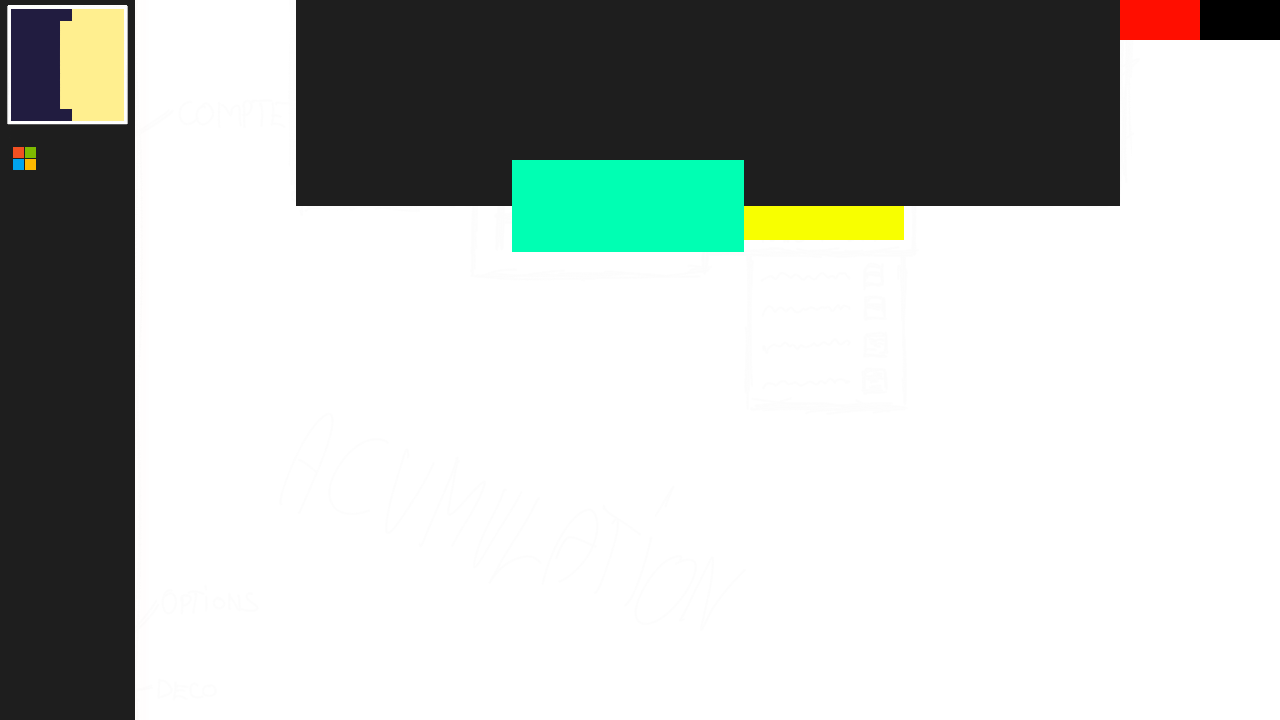
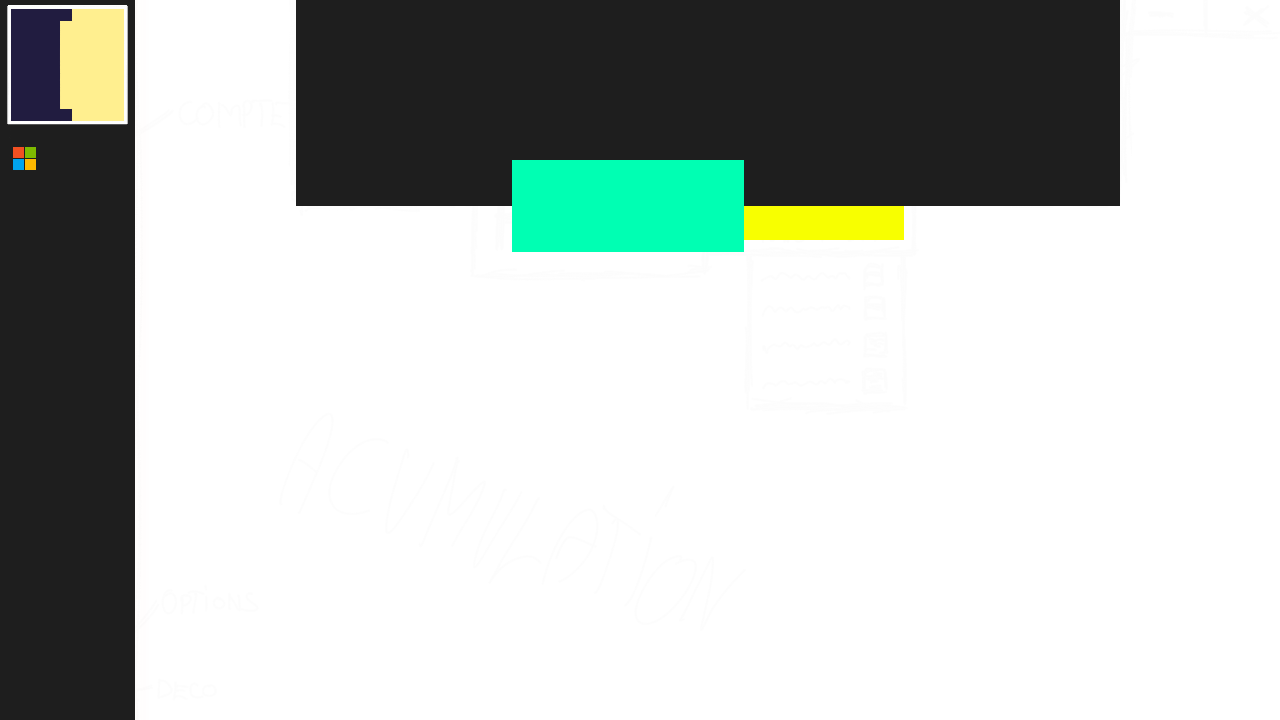
get all minecraft versions and launch the game

Changed region(s): [[0.875, 0.0, 1.0, 0.0611]]

diff --git a/src/main/resources/styles/MainPane.css b/src/main/resources/styles/MainPane.css
@@ -40,3 +40,8 @@
 #version_combo_box {
     -fx-background-color: red;
 }
+
+#play_button {
+    -fx-background-image: url("../images/play_button2.png");
+    -fx-background-color: transparent;
+}

diff --git a/src/main/java/fr/knightmar/system/VersionManager.java b/src/main/java/fr/knightmar/system/VersionManager.java
@@ -1,57 +1,45 @@
 package fr.knightmar.system;
 
-import com.google.gson.internal.bind.util.ISO8601Utils;
+import com.google.gson.Gson;
+import com.google.gson.JsonArray;
+import com.google.gson.JsonObject;
 import fr.flowarg.flowupdater.FlowUpdater;
 import fr.flowarg.flowupdater.utils.UpdaterOptions;
 import fr.flowarg.flowupdater.versions.VanillaVersion;
 import fr.knightmar.MainGui;
+import fr.knightmar.utils.SendRequest;
 
 import java.io.File;
+import java.io.IOException;
 import java.nio.file.Paths;
 import java.util.*;
 
 public class VersionManager {
-    private static Map<String, Boolean> versions = new HashMap<>();
+    private static List<String> versions = new ArrayList();
 
     public static void init() {
-        versions.put("1.7.10", false);
-        versions.put("1.12.2", false);
-        updateVersionsAvailability();
-    }
-
-    public static List<String> getVersions() {
-        updateVersionsAvailability();
-        List<String> list = new ArrayList<>();
-        versions.forEach((key, value) -> {
-            list.add(key);
-        });
-        return list;
-    }
-
-    public static void updateVersionsAvailability() {
-        versions.replaceAll((v, c) -> false);
-        File versionDir = MainGui.getInstance().getlauncherDir().resolve("versions").toFile();
-        if (versionDir.exists()) {
-            File[] files = versionDir.listFiles();
-            if (files != null) {
-                for (File file : files) {
-                    if (file.exists()) {
-                        if (file.isDirectory()) {
-                            String version = file.getName();
-                            if (versions.containsKey(version)) {
-                                versions.put(version, true);
-                            }
-                        }
-                    }
-                }
-            }
+        versions.addAll(VersionManager.getMinecraftVersions(false));
+        for (String s : getVersionsInstalled()) {
+            System.out.println("Version " + s + " is already installed");
         }
-        versions.forEach((key, value) -> System.out.println(key + " : " + value));
     }
+
+    public static List<String> getVersionsInstalled() {
+        versions.clear();
+        List<String> versionsInstalled = new ArrayList<>();
+        System.out.println("Getting versions installed");
+        File folder = MainGui.getInstance().getlauncherDir().resolve("versions").toFile();
+        Arrays.stream(Objects.requireNonNull(folder.listFiles())).forEach((file -> {
+            if (file.isDirectory()) {
+                versionsInstalled.add(file.getName());
+            }
+        }));
+        return versionsInstalled;
+    }
+
 
     public static boolean isVersionAvailable(String version) {
-        updateVersionsAvailability();
-        return versions.get(version);
+        return getVersionsInstalled().contains(version);
     }
 
     public static void installVersion(String version) {
@@ -74,7 +62,37 @@ public class VersionManager {
             System.out.println("Error while installing version " + version);
             throw new RuntimeException(e);
         }
+        getVersionsInstalled();
+    }
 
-        updateVersionsAvailability();
+    public static List<String> getMinecraftVersions(boolean withSnapshot) {
+        String[] tab;
+        List<String> versionsList = new ArrayList<>();
+        try {
+            tab = SendRequest.sendRequest("https://piston-meta.mojang.com/mc/game/version_manifest_v2.json");
+        } catch (IOException e) {
+            throw new RuntimeException(e);
+        }
+
+        Gson gson = new Gson();
+
+        Map versions = gson.fromJson(tab[0], Map.class); // parse
+
+        JsonObject allVersionTree = (JsonObject) gson.toJsonTree(versions);
+        JsonArray oldVersionTree = (JsonArray) gson.toJsonTree(allVersionTree.get("versions"));
+
+        oldVersionTree.forEach(version -> {
+
+            JsonObject versionObject = (JsonObject) version;
+            if (withSnapshot) {
+                versionsList.add(versionObject.get("id").toString().substring(1, versionObject.get("id").toString().length() - 1));
+            } else {
+                if (versionObject.get("type").toString().contains("release")) {
+                    versionsList.add(versionObject.get("id").toString().substring(1, versionObject.get("id").toString().length() - 1));
+                }
+            }
+        });
+
+        return versionsList;
     }
 }

diff --git a/src/main/java/fr/knightmar/system/LoginManager.java b/src/main/java/fr/knightmar/system/LoginManager.java
@@ -22,6 +22,7 @@ public class LoginManager {
     private String uuid = "";
     private String refreshToken = "";
     private String accessToken = "";
+    private Boolean isCracked = null;
 
     public LoginManager() {
         this.instance = MainGui.getInstance();
@@ -32,6 +33,9 @@ public class LoginManager {
         instance.getLogger().info("LoginManager init");
 
         this.pseudo = saver.get("pseudo");
+        this.uuid = saver.get("uuid");
+
+        setCracked(this.uuid == null || this.uuid.isEmpty());
     }
 
     public boolean isLogged() {
@@ -70,7 +74,6 @@ public class LoginManager {
             }
 
             Platform.runLater(() -> {
-
                 instance.getLogger().info("User " + pseudo + " is logged");
                 instance.setLogged(true);
                 Alert alert = new Alert(Alert.AlertType.INFORMATION);
@@ -79,6 +82,7 @@ public class LoginManager {
                 alert.setContentText("Welcome " + this.pseudo);
                 alert.show();
                 MainGui.getInstance().getPrimaryStage().setScene(new Scene(new MainPane(1280, 720), 1280, 720));
+                setCracked(false);
             });
         });
         t.start();
@@ -102,6 +106,7 @@ public class LoginManager {
             alert.setContentText("Welcome " + this.pseudo);
             alert.show();
             MainGui.getInstance().getPrimaryStage().setScene(new Scene(new MainPane(1280, 720), 1280, 720));
+            setCracked(true);
         } else {
             Alert alert = new Alert(Alert.AlertType.ERROR);
             alert.setTitle("Error on login");
@@ -124,5 +129,15 @@ public class LoginManager {
         saver.save();
         instance.setLogged(false);
         MainGui.getInstance().getPrimaryStage().setScene(new Scene(new LoginPane(1280, 720), 1280, 720));
+        isCracked = null;
+    }
+
+    public boolean getCracked() {
+        uuid = saver.get("uuid");
+        return uuid != null && !uuid.isEmpty();
+    }
+
+    public void setCracked(boolean cracked) {
+        isCracked = cracked;
     }
 }

diff --git a/src/main/java/fr/knightmar/panes/MainPane.java b/src/main/java/fr/knightmar/panes/MainPane.java
@@ -18,7 +18,7 @@ import javafx.scene.text.TextAlignment;
 
 
 public class MainPane extends Pane {
-    private ComboBox versionComboBox = new ComboBox(FXCollections.observableArrayList(VersionManager.getVersions()));
+    private ComboBox versionComboBox = new ComboBox(FXCollections.observableArrayList(VersionManager.getMinecraftVersions(false)));
     private Button playButton = new Button("Play");
     private final double width;
     private final double height;
@@ -76,7 +76,7 @@ public class MainPane extends Pane {
         exit_button.setBackground(null);
 
         hide_button.setPrefSize(18, 18);
-        hide_button.setLayoutX(width - 140);
+        hide_button.setLayoutX(width - 137);
         hide_button.setLayoutY(7);
         hide_button.setContentDisplay(ContentDisplay.GRAPHIC_ONLY);
         hide_button.setGraphic(new ImageView(new Image("/images/hide_button.png")));
@@ -97,7 +97,7 @@ public class MainPane extends Pane {
         crackMessage.setWrapText(false);
         crackMessage.setTranslateX(285);
         crackMessage.setTranslateY(height - crackMessage.getHeight() - 50);
-        crackMessage.setVisible(true);
+        crackMessage.setVisible(!MainGui.getInstance().getLoginManager().getCracked());
         crackMessage.setPrefSize(841, 92);
         crackMessage.setGraphic(crackBanner);
         crackMessage.setFont(font);
@@ -117,9 +117,11 @@ public class MainPane extends Pane {
         versionComboBox.setTranslateY(60);
 
         playButton.setId("play_button");
-        playButton.setTranslateX(width / 2.0 - playButton.getMinWidth() / 2);
-        playButton.setTranslateY(100);
+        playButton.setPrefSize(232,92);
+        playButton.setTranslateX(512);
+        playButton.setTranslateY(160);
         playButton.setFont(font);
+        hide_button.setBorder(null);
 
         playerHead.setId("player_head");
         playerHead.setMaxSize(113, 113);

diff --git a/src/main/java/fr/knightmar/utils/SendRequest.java b/src/main/java/fr/knightmar/utils/SendRequest.java
@@ -1,0 +1,34 @@
+package fr.knightmar.utils;
+
+import java.io.BufferedReader;
+import java.io.IOException;
+import java.io.InputStreamReader;
+import java.net.HttpURLConnection;
+import java.net.URL;
+
+public class SendRequest {
+    public static String[] sendRequest(String request) throws IOException {
+        URL url = new URL(request);
+        HttpURLConnection con = (HttpURLConnection) url.openConnection();
+        con.setRequestMethod("GET");
+
+        int status = con.getResponseCode();
+
+        BufferedReader in = new BufferedReader(
+                new InputStreamReader(con.getInputStream()));
+        String inputLine;
+        StringBuffer content = new StringBuffer();
+        while ((inputLine = in.readLine()) != null) {
+            content.append(inputLine);
+        }
+        in.close();
+
+        con.disconnect();
+
+        String[] tab = new String[2];
+        tab[0] = content.toString();
+        tab[1] = String.valueOf(status);
+
+        return tab;
+    }
+}

diff --git a/src/main/java/fr/knightmar/system/GameManager.java b/src/main/java/fr/knightmar/system/GameManager.java
@@ -10,10 +10,10 @@ import java.util.Objects;
 
 public class GameManager {
     public static void initLaunch(String version) {
-        VersionManager.updateVersionsAvailability();
         if (!VersionManager.isVersionAvailable(version)) {
             try {
                 VersionManager.installVersion(version);
+                launch(version);
             } catch (Exception e) {
                 e.printStackTrace();
             }

diff --git a/src/main/java/fr/knightmar/Main.java b/src/main/java/fr/knightmar/Main.java
@@ -16,5 +16,6 @@ public class Main {
                     "Erreur",
                     JOptionPane.ERROR_MESSAGE
             );
-        }    }
+        }
+    }
 }
